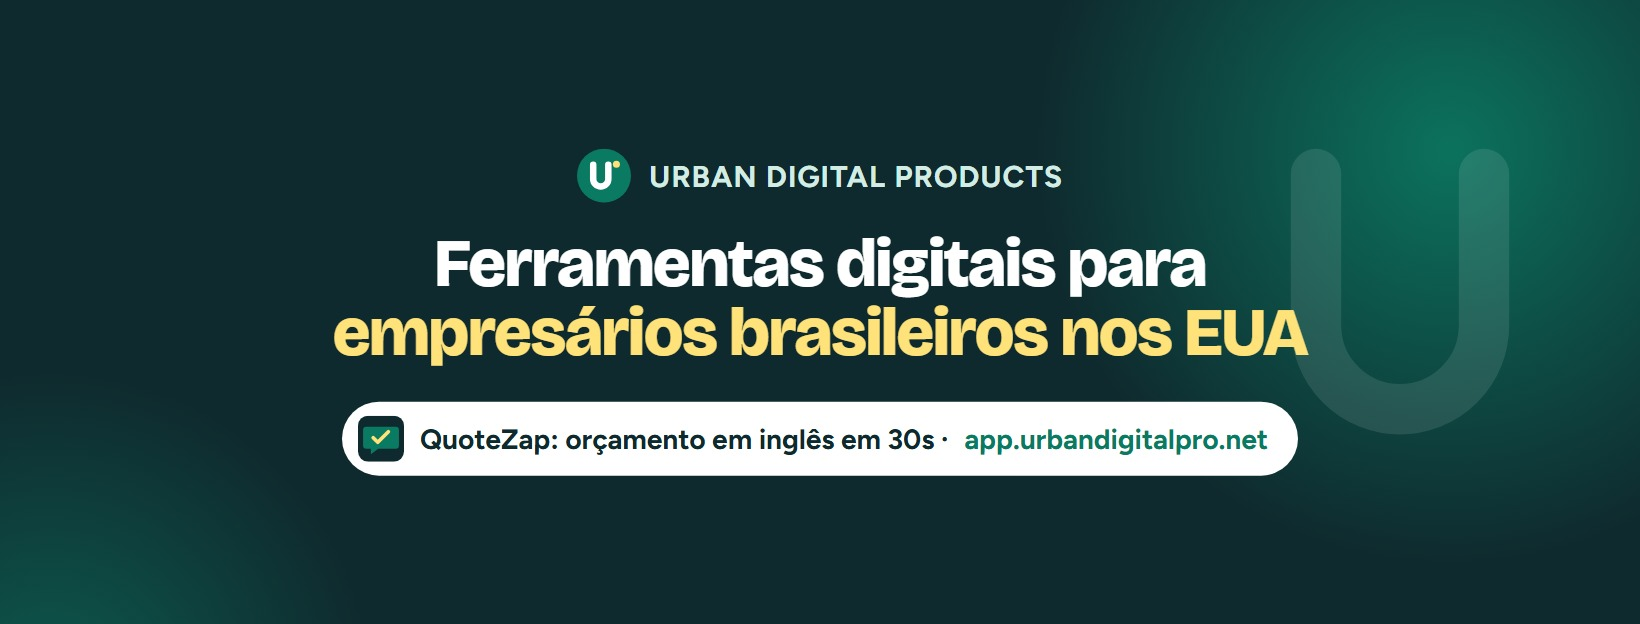
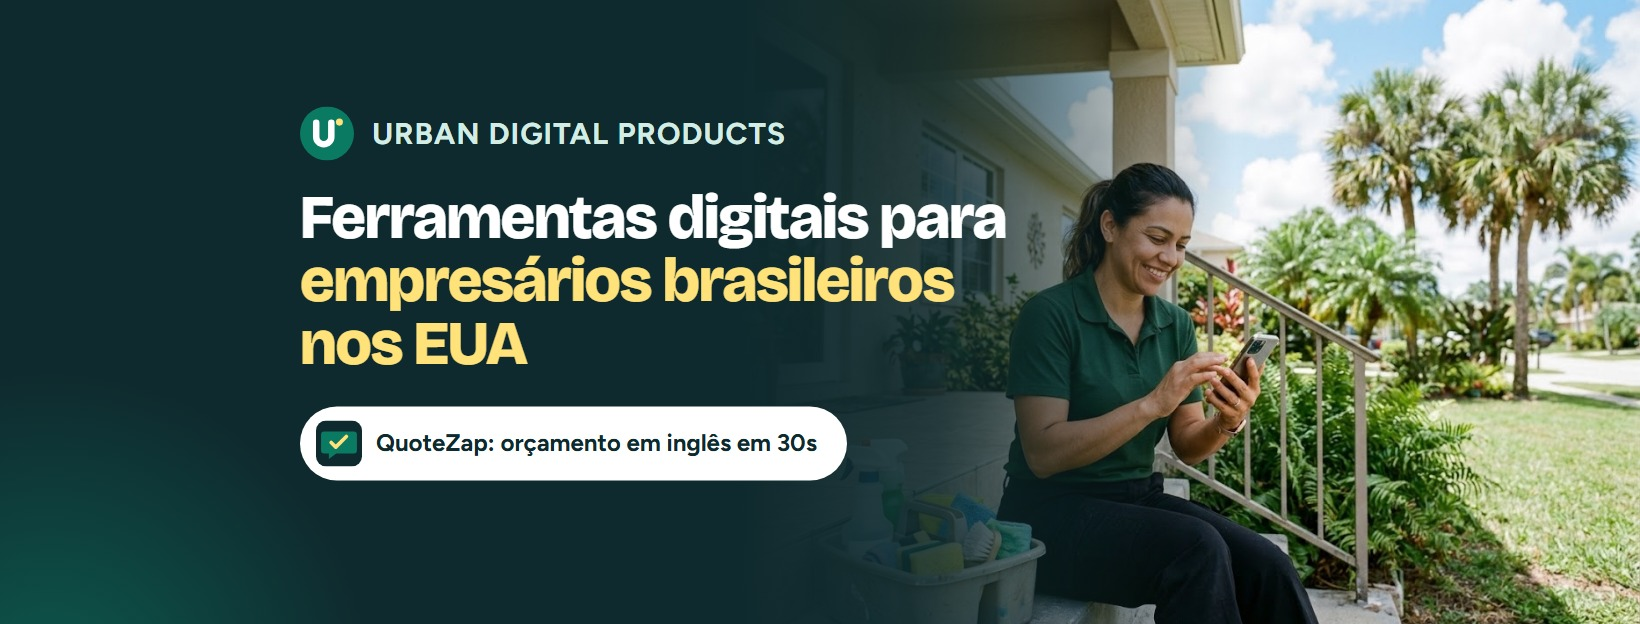
feat: Facebook cover with photo

diff --git a/brand/capa-facebook.html b/brand/capa-facebook.html
@@ -7,20 +7,22 @@ body{background:#0F2A2E;font-family:Figtree,sans-serif;color:#fff;position:relat
 .glow{position:absolute;width:900px;height:900px;border-radius:50%;background:radial-gradient(circle,#0B7A63 0%,rgba(11,122,99,0) 65%);right:-260px;top:-300px;opacity:.9}
 .glow2{position:absolute;width:700px;height:700px;border-radius:50%;background:radial-gradient(circle,#0B7A63 0%,rgba(11,122,99,0) 65%);left:-300px;bottom:-420px;opacity:.6}
 .bigU{position:absolute;right:30px;top:90px;width:420px;height:420px;opacity:.10}
-.wrap{position:absolute;left:50%;top:50%;transform:translate(-50%,-50%);width:1060px;text-align:center}
+.wrap{position:absolute;left:300px;top:50%;transform:translateY(-55%);width:760px;text-align:left;z-index:2}
+.photo{position:absolute;right:0;top:0;width:900px;height:624px;background:url(../social/photos/phone-porch.jpg) 18% 30%/cover no-repeat}
+.photo:after{content:"";position:absolute;inset:0;background:linear-gradient(90deg,#0F2A2E 0%,rgba(15,42,46,.85) 22%,rgba(15,42,46,0) 55%)}
 .brand{display:inline-flex;align-items:center;gap:18px;font-weight:700;font-size:30px;letter-spacing:1px;color:#D3ECE4;margin-bottom:26px}
 .brand svg{width:54px;height:54px}
-h1{font-family:'Bricolage Grotesque',sans-serif;font-weight:800;font-size:68px;line-height:1.02;letter-spacing:-1.5px}
+h1{font-family:'Bricolage Grotesque',sans-serif;font-weight:800;font-size:62px;line-height:1.02;letter-spacing:-1.5px}
 h1 span{color:#FFE27A}
-.chip{display:inline-flex;align-items:center;gap:16px;margin-top:34px;background:#fff;color:#0F2A2E;border-radius:999px;padding:14px 30px 14px 16px;font-weight:700;font-size:28px}
+.chip{display:inline-flex;align-items:center;gap:14px;margin-top:30px;font-size:24px!important;background:#fff;color:#0F2A2E;border-radius:999px;padding:14px 30px 14px 16px;font-weight:700;font-size:28px}
 .chip svg{width:46px;height:46px}
 .chip b{color:#0B7A63}
 </style></head><body>
 <div class="glow"></div><div class="glow2"></div>
-<svg class="bigU" viewBox="0 0 100 100"><path d="M30 20 v36 a20 20 0 0 0 40 0 v-36" fill="none" stroke="#fff" stroke-width="12" stroke-linecap="round"/></svg>
+<div class="photo"></div><svg style="display:none" class="bigU" viewBox="0 0 100 100"><path d="M30 20 v36 a20 20 0 0 0 40 0 v-36" fill="none" stroke="#fff" stroke-width="12" stroke-linecap="round"/></svg>
 <div class="wrap">
   <div class="brand"><svg viewBox="0 0 100 100"><rect width="100" height="100" rx="50" fill="#0B7A63"/><path d="M30 30 v26 a14 14 0 0 0 28 0 v-26" fill="none" stroke="#fff" stroke-width="12" stroke-linecap="round"/><circle cx="73" cy="29" r="6.5" fill="#FFE27A"/></svg>URBAN DIGITAL PRODUCTS</div>
-  <h1>Ferramentas digitais para<br><span>empresários brasileiros nos EUA</span></h1>
-  <div class="chip"><svg viewBox="0 0 100 100"><rect width="100" height="100" rx="22" fill="#0F2A2E"/><path d="M18 24 h64 a7 7 0 0 1 7 7 v34 a7 7 0 0 1 -7 7 H44 L28 84 v-12 h-10 a7 7 0 0 1 -7 -7 V31 a7 7 0 0 1 7 -7z" fill="#0B7A63"/><path d="M33 48 l10 10 l23 -23" fill="none" stroke="#FFE27A" stroke-width="8" stroke-linecap="round" stroke-linejoin="round"/></svg>QuoteZap: orçamento em inglês em 30s · <b>app.urbandigitalpro.net</b></div>
+  <h1>Ferramentas digitais para<br><span>empresários brasileiros<br>nos EUA</span></h1>
+  <div class="chip"><svg viewBox="0 0 100 100"><rect width="100" height="100" rx="22" fill="#0F2A2E"/><path d="M18 24 h64 a7 7 0 0 1 7 7 v34 a7 7 0 0 1 -7 7 H44 L28 84 v-12 h-10 a7 7 0 0 1 -7 -7 V31 a7 7 0 0 1 7 -7z" fill="#0B7A63"/><path d="M33 48 l10 10 l23 -23" fill="none" stroke="#FFE27A" stroke-width="8" stroke-linecap="round" stroke-linejoin="round"/></svg>QuoteZap: orçamento em inglês em 30s</div>
 </div>
 </body></html>

diff --git a/brand/logo-c.html b/brand/logo-c.html
@@ -1,0 +1,5 @@
+<!doctype html><html><head><meta charset="utf-8"><link href="https://fonts.googleapis.com/css2?family=Bricolage+Grotesque:opsz,wght@12..96,800&display=swap" rel="stylesheet">
+<style>*{margin:0}html,body{width:1080px;height:1080px}body{background:#EDF2F0;display:grid;place-items:center}
+.b{width:760px;height:760px;border-radius:190px;background:#0B7A63;display:grid;place-items:center;position:relative}
+.t{font-family:'Bricolage Grotesque',sans-serif;font-weight:800;font-size:330px;color:#fff;letter-spacing:-12px;line-height:1}
+.t span{color:#FFE27A}</style></head><body><div class="b"><div class="t">U<span>D</span></div></div></body></html>

diff --git a/brand/logo-a.html b/brand/logo-a.html
@@ -1,0 +1,5 @@
+<!doctype html><html><head><meta charset="utf-8"><link href="https://fonts.googleapis.com/css2?family=Bricolage+Grotesque:opsz,wght@12..96,800&display=swap" rel="stylesheet">
+<style>*{margin:0}html,body{width:1080px;height:1080px}body{background:#0B7A63;display:grid;place-items:center}
+.u{font-family:'Bricolage Grotesque',sans-serif;font-weight:800;font-size:700px;line-height:1;color:#fff;letter-spacing:-20px;position:relative;top:-30px}
+.dot{position:absolute;width:150px;height:150px;border-radius:50%;background:#FFE27A;right:250px;top:250px}</style></head>
+<body><div class="u">U</div><div class="dot"></div></body></html>

diff --git a/brand/logo-b.html b/brand/logo-b.html
@@ -1,0 +1,5 @@
+<!doctype html><html><head><meta charset="utf-8"></head><body style="margin:0;width:1080px;height:1080px;background:#0F2A2E;display:grid;place-items:center">
+<svg width="760" height="760" style="margin-top:-60px" viewBox="0 0 100 100">
+ <path d="M14 18 h72 a8 8 0 0 1 8 8 v40 a8 8 0 0 1 -8 8 H42 L24 88 v-14 h-10 a8 8 0 0 1 -8 -8 V26 a8 8 0 0 1 8 -8z" fill="#0B7A63"/>
+ <path d="M30 46 l12 12 l26 -26" fill="none" stroke="#FFE27A" stroke-width="9" stroke-linecap="round" stroke-linejoin="round"/>
+</svg></body></html>
